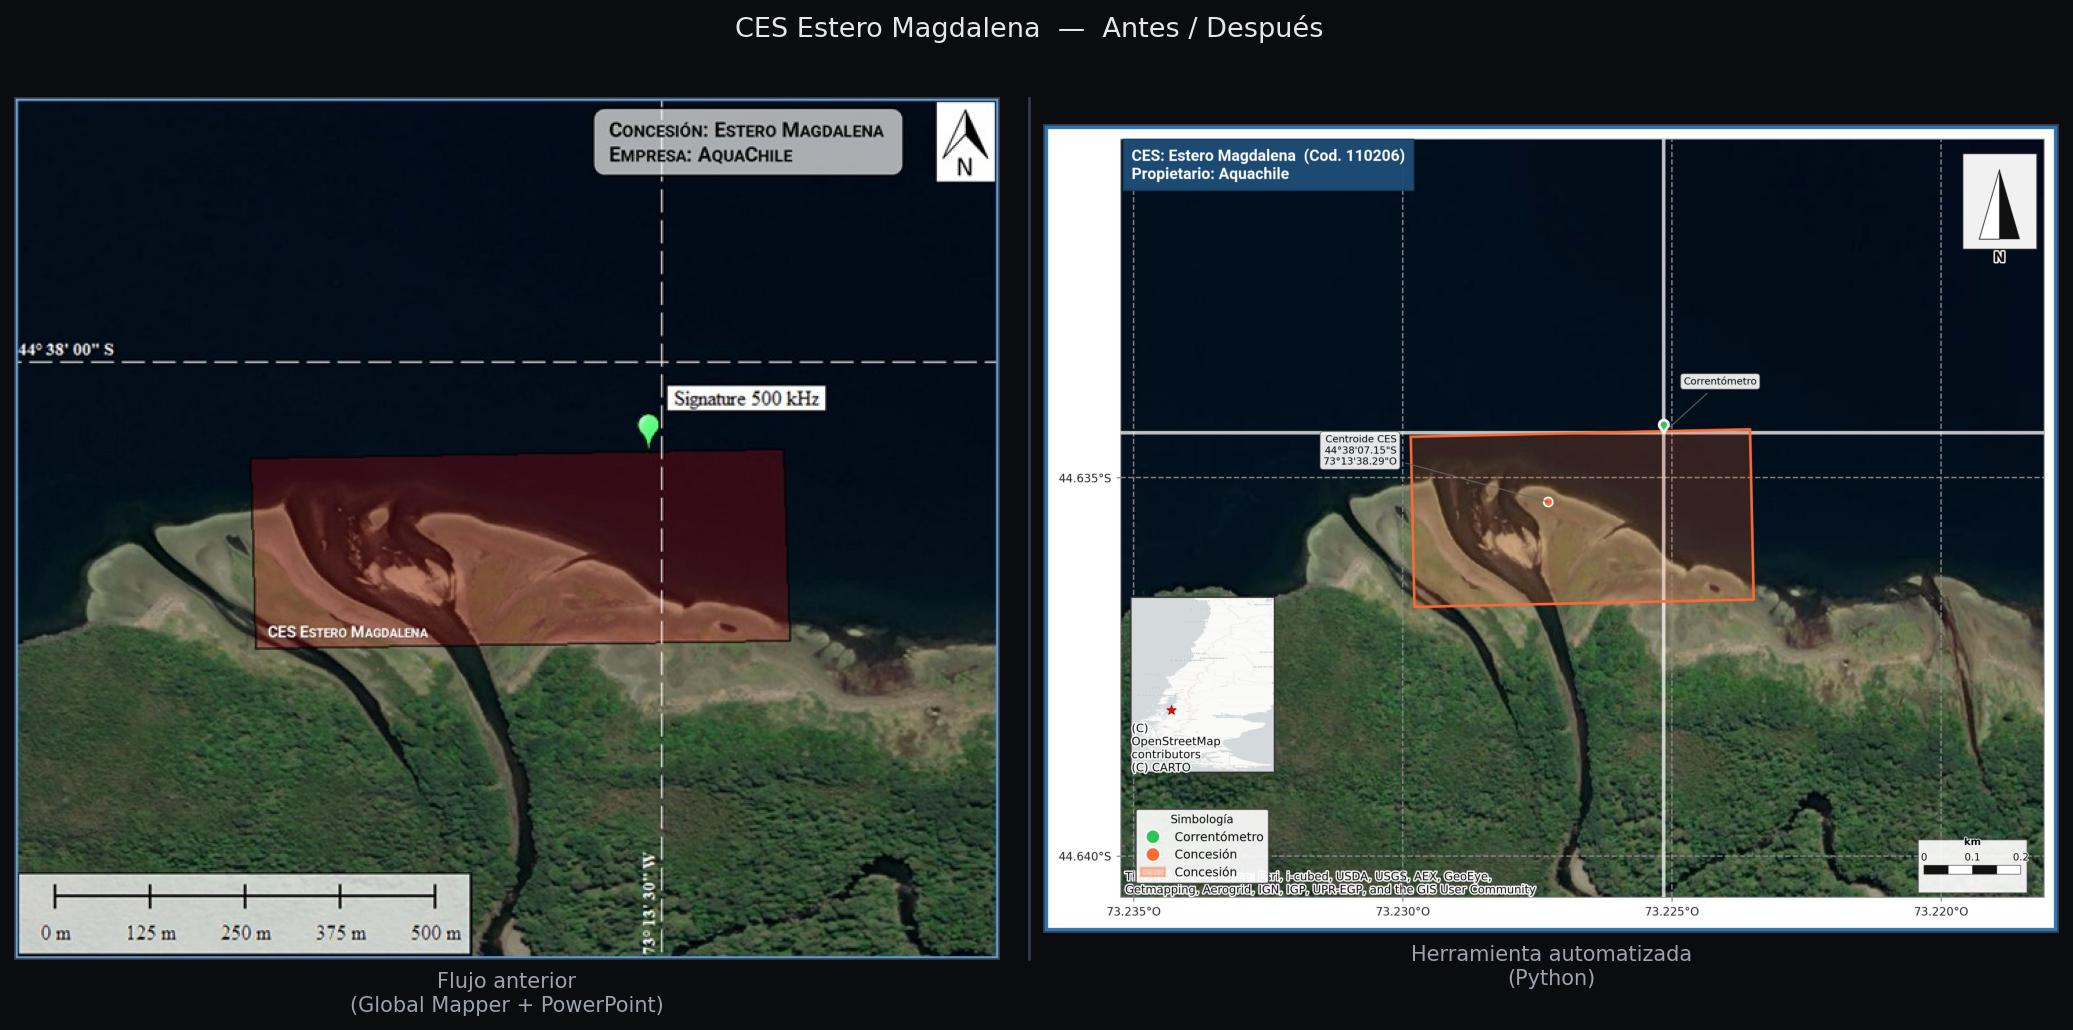
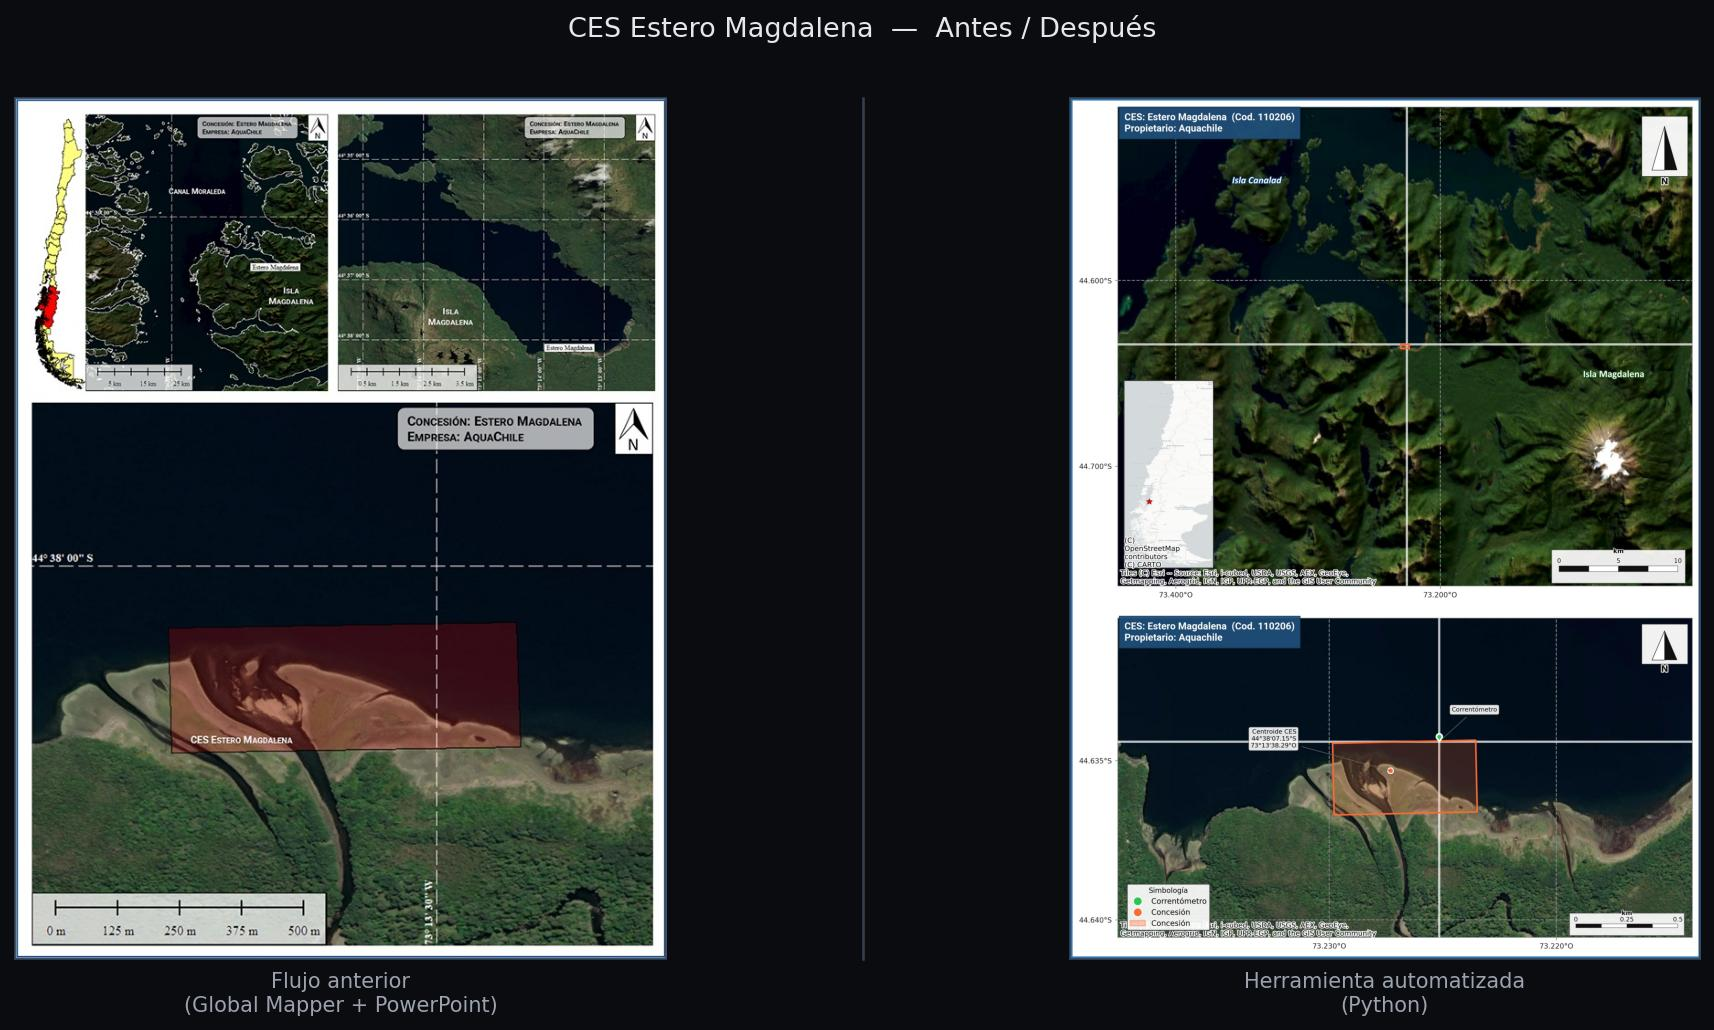
Improve composites: multi-panel vs multi-panel + zoom vs zoom pairs
10 composites total (2 per center): context view and detail zoom.
Better apples-to-apples comparison between old and new workflow.

diff --git a/index.html b/index.html
@@ -1258,10 +1258,15 @@
       thumb:   'assets/comp_filomena.jpg',
       images:  [
         'assets/comp_filomena.jpg',
+        'assets/comp_filomena_zoom.jpg',
         'assets/comp_errazuriz.jpg',
+        'assets/comp_errazuriz_zoom.jpg',
         'assets/comp_esteromagdalena.jpg',
+        'assets/comp_esteromagdalena_zoom.jpg',
         'assets/comp_san_francisco.jpg',
+        'assets/comp_san_francisco_zoom.jpg',
         'assets/comp_elefantes.jpg',
+        'assets/comp_elefantes_zoom.jpg',
         'assets/mapa_ces_1panel.jpg',
         'assets/mapa_ces_2paneles.jpg',
         'assets/mapa_ces_errazuriz_1panel.jpg',

diff --git a/assets/GenerarComposiciones.py b/assets/GenerarComposiciones.py
@@ -17,35 +17,67 @@ BG  = "#0a0c10"
 DPI = 150
 
 PARES = [
+    # comparación contexto: varios paneles vs 2 paneles
     {
         "nombre":  "E. Filomena",
-        "antes":   "mapa_ces_antes_2.jpg",
-        "despues": "mapa_ces_1panel.jpg",
+        "antes":   "mapa_ces_antes_1.jpg",
+        "despues": "mapa_ces_2paneles.jpg",
         "out":     "comp_filomena.jpg",
     },
     {
         "nombre":  "Errázuriz",
-        "antes":   "mapa_ces_errazuriz_antes_1.jpg",
-        "despues": "mapa_ces_errazuriz_1panel.jpg",
+        "antes":   "mapa_ces_errazuriz_antes_2.jpg",
+        "despues": "mapa_ces_errazuriz_2paneles.jpg",
         "out":     "comp_errazuriz.jpg",
     },
     {
         "nombre":  "Estero Magdalena",
-        "antes":   "mapa_ces_esteromagdalena_antes_2.jpg",
-        "despues": "mapa_ces_esteromagdalena_1panel.jpg",
+        "antes":   "mapa_ces_esteromagdalena_antes_1.jpg",
+        "despues": "mapa_ces_esteromagdalena_2paneles.jpg",
         "out":     "comp_esteromagdalena.jpg",
     },
     {
         "nombre":  "San Francisco",
-        "antes":   "mapa_ces_san_francisco_antes_2.jpg",
-        "despues": "mapa_ces_san_francisco_1panel.jpg",
+        "antes":   "mapa_ces_san_francisco_antes_1.jpg",
+        "despues": "mapa_ces_san_francisco_2paneles.jpg",
         "out":     "comp_san_francisco.jpg",
     },
     {
         "nombre":  "Elefantes",
+        "antes":   "mapa_ces_elefantes_antes_1.jpg",
+        "despues": "mapa_ces_elefantes_2paneles.jpg",
+        "out":     "comp_elefantes.jpg",
+    },
+    # comparación zoom: 1 panel vs 1 panel
+    {
+        "nombre":  "E. Filomena (zoom)",
+        "antes":   "mapa_ces_antes_2.jpg",
+        "despues": "mapa_ces_1panel.jpg",
+        "out":     "comp_filomena_zoom.jpg",
+    },
+    {
+        "nombre":  "Errázuriz (zoom)",
+        "antes":   "mapa_ces_errazuriz_antes_1.jpg",
+        "despues": "mapa_ces_errazuriz_1panel.jpg",
+        "out":     "comp_errazuriz_zoom.jpg",
+    },
+    {
+        "nombre":  "Estero Magdalena (zoom)",
+        "antes":   "mapa_ces_esteromagdalena_antes_2.jpg",
+        "despues": "mapa_ces_esteromagdalena_1panel.jpg",
+        "out":     "comp_esteromagdalena_zoom.jpg",
+    },
+    {
+        "nombre":  "San Francisco (zoom)",
+        "antes":   "mapa_ces_san_francisco_antes_2.jpg",
+        "despues": "mapa_ces_san_francisco_1panel.jpg",
+        "out":     "comp_san_francisco_zoom.jpg",
+    },
+    {
+        "nombre":  "Elefantes (zoom)",
         "antes":   "mapa_ces_elefantes_antes_2.jpg",
         "despues": "mapa_ces_elefantes_1panel.jpg",
-        "out":     "comp_elefantes.jpg",
+        "out":     "comp_elefantes_zoom.jpg",
     },
 ]
 
